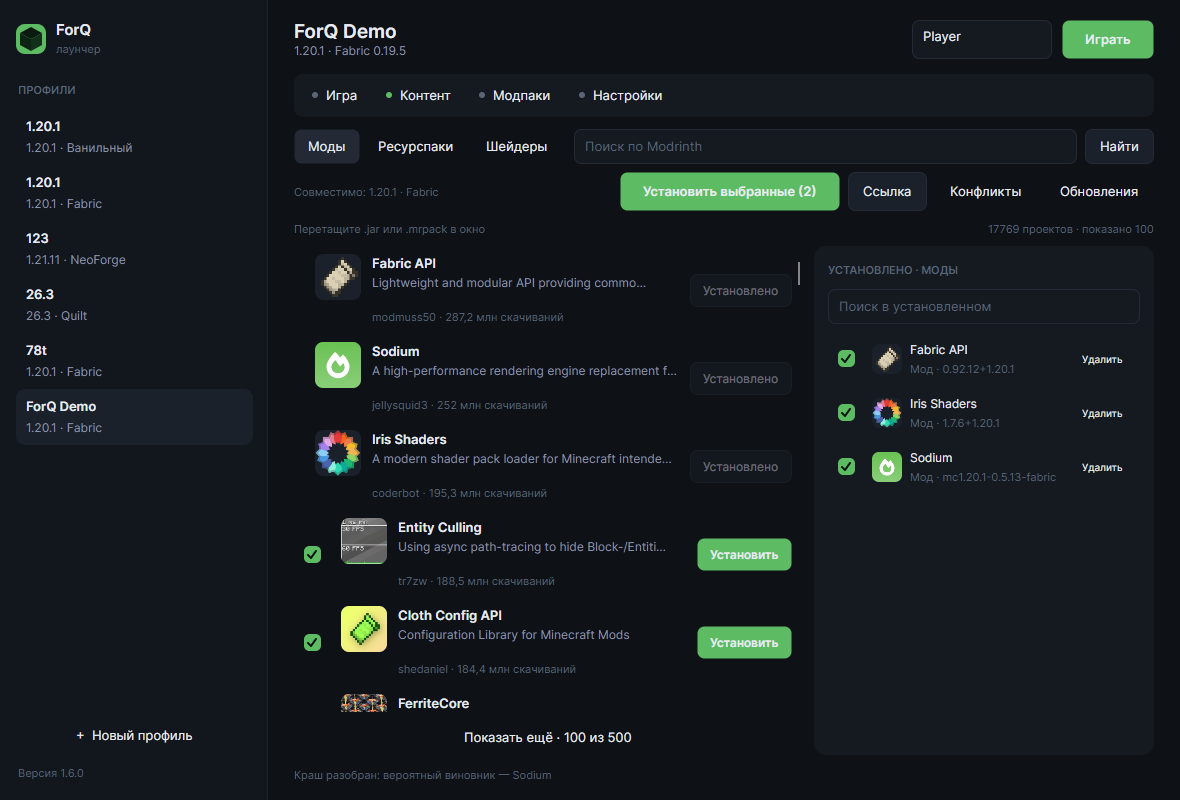
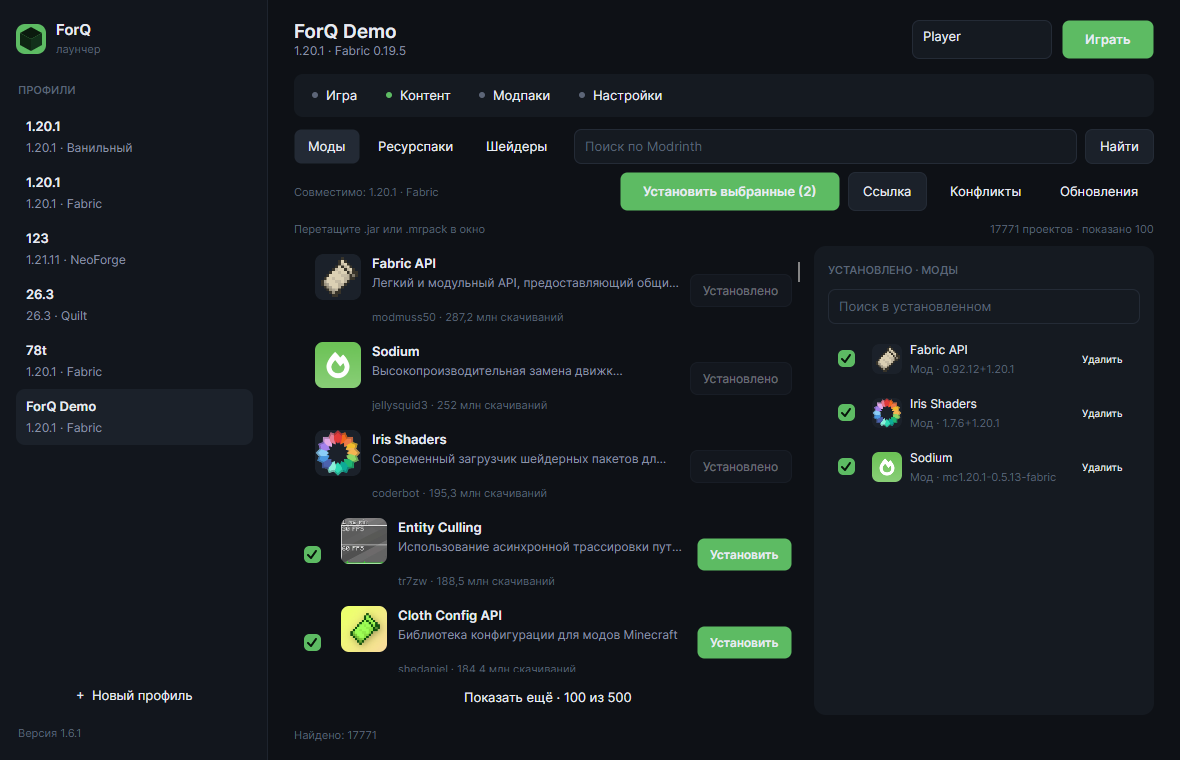
feat: добавил перевод описаний контента

diff --git a/src/ForQ.App/MainWindow.axaml.cs b/src/ForQ.App/MainWindow.axaml.cs
@@ -49,6 +49,8 @@ public partial class MainWindow : Window
     private string _resultsQuery = "";
     private ObservableCollection<SearchItem> _resultItems = new();
     private ObservableCollection<SearchItem> _modpackItems = new();
+    private CancellationTokenSource? _contentTranslationCts;
+    private CancellationTokenSource? _modpackTranslationCts;
     private int _searchOffset;
     private int _searchTotal;
     private int _modpackOffset;
@@ -519,6 +521,10 @@ public partial class MainWindow : Window
             return;
         }
 
+        _contentTranslationCts?.Cancel();
+        var translationCts = CancellationTokenSource.CreateLinkedTokenSource(_cts.Token);
+        _contentTranslationCts = translationCts;
+
         var instance = _current;
         var kind = _kind;
         var query = SearchBox.Text ?? "";
@@ -567,6 +573,7 @@ public partial class MainWindow : Window
             _searchTotal = (int)response.TotalHits;
             UpdateSearchMore();
             UpdateBatchButton();
+            _ = TranslateDescriptionsAsync(_resultItems, () => generation == _searchGeneration, translationCts.Token);
 
             StatusText.Text = $"Найдено: {response.TotalHits}";
 
@@ -617,6 +624,7 @@ public partial class MainWindow : Window
         var instance = _current;
         var kind = _resultsKind;
         var generation = _searchGeneration;
+        var translationToken = _contentTranslationCts?.Token ?? _cts.Token;
         SearchMoreButton.IsEnabled = false;
         StatusText.Text = "Загружаю ещё...";
 
@@ -630,6 +638,7 @@ public partial class MainWindow : Window
                 return;
 
             var installedIds = _services.Content.InstalledProjectIds(instance, kind);
+            var added = new List<SearchItem>();
             foreach (var project in response.Hits)
             {
                 if (_resultItems.Count >= SearchMaxItems)
@@ -642,9 +651,11 @@ public partial class MainWindow : Window
                     Installed = installedIds.Contains(project.Key)
                 };
                 _resultItems.Add(item);
+                added.Add(item);
                 _ = item.LoadIconAsync(_cts.Token);
             }
 
+            _ = TranslateDescriptionsAsync(added, () => generation == _searchGeneration, translationToken);
             _searchOffset += response.Hits.Count;
             _searchTotal = (int)response.TotalHits;
             UpdateSearchMore();
@@ -662,6 +673,43 @@ public partial class MainWindow : Window
         finally
         {
             SearchMoreButton.IsEnabled = true;
+        }
+    }
+
+    private async Task TranslateDescriptionsAsync(
+        IReadOnlyList<SearchItem> items, Func<bool> isCurrent, CancellationToken ct)
+    {
+        if (items.Count == 0)
+            return;
+
+        try
+        {
+            var progress = new Progress<(int Index, string Text)>(entry =>
+            {
+                if (!isCurrent() || entry.Index < 0 || entry.Index >= items.Count)
+                    return;
+                items[entry.Index].SetDescription(entry.Text);
+            });
+
+            var descriptions = items.Select(item => item.Project.Description).ToList();
+            var translated = await _services.Translation.ToRussianBatchAsync(descriptions, ct, progress);
+            if (ct.IsCancellationRequested)
+                return;
+
+            Dispatcher.UIThread.Post(() =>
+            {
+                if (!isCurrent())
+                    return;
+
+                for (var index = 0; index < items.Count && index < translated.Count; index++)
+                    items[index].SetDescription(translated[index]);
+            });
+        }
+        catch (OperationCanceledException)
+        {
+        }
+        catch
+        {
         }
     }
 
@@ -1190,6 +1238,10 @@ public partial class MainWindow : Window
 
     private async Task RunModpackSearchAsync()
     {
+        _modpackTranslationCts?.Cancel();
+        var translationCts = CancellationTokenSource.CreateLinkedTokenSource(_cts.Token);
+        _modpackTranslationCts = translationCts;
+
         var generation = ++_modpackGeneration;
         ModpackMoreButton.IsVisible = false;
         StatusText.Text = "Поиск сборок...";
@@ -1215,6 +1267,7 @@ public partial class MainWindow : Window
             _modpackTotal = (int)response.TotalHits;
             UpdateModpackMore();
             _modpacksLoaded = true;
+            _ = TranslateDescriptionsAsync(_modpackItems, () => generation == _modpackGeneration, translationCts.Token);
             StatusText.Text = "Готово";
         }
         catch (OperationCanceledException)
@@ -1254,6 +1307,7 @@ public partial class MainWindow : Window
         }
 
         var generation = _modpackGeneration;
+        var translationToken = _modpackTranslationCts?.Token ?? _cts.Token;
         ModpackMoreButton.IsEnabled = false;
         StatusText.Text = "Загружаю ещё...";
 
@@ -1265,6 +1319,7 @@ public partial class MainWindow : Window
             if (generation != _modpackGeneration)
                 return;
 
+            var added = new List<SearchItem>();
             foreach (var hit in response.Hits)
             {
                 if (_modpackItems.Count >= SearchMaxItems)
@@ -1274,9 +1329,11 @@ public partial class MainWindow : Window
 
                 var item = new SearchItem(hit, "Модпак");
                 _modpackItems.Add(item);
+                added.Add(item);
                 _ = item.LoadIconAsync(_cts.Token);
             }
 
+            _ = TranslateDescriptionsAsync(added, () => generation == _modpackGeneration, translationToken);
             _modpackOffset += response.Hits.Count;
             _modpackTotal = (int)response.TotalHits;
             UpdateModpackMore();

diff --git a/src/ForQ.Core/TranslationService.cs b/src/ForQ.Core/TranslationService.cs
@@ -8,6 +8,10 @@ public sealed class TranslationService
 {
     private const string Endpoint = "https://translate.googleapis.com/translate_a/single";
     private const int ChunkSize = 900;
+    private const int BatchSize = 8;
+
+    private static readonly Regex BatchMarker = new(
+        @"\[\[\[FORQ(?<index>\d+)\]\]\]", RegexOptions.Compiled);
 
     private readonly HttpApi _http;
     private readonly string _cachePath;
@@ -45,6 +49,81 @@ public sealed class TranslationService
         return result.ToString();
     }
 
+    public async Task<IReadOnlyList<string>> ToRussianBatchAsync(
+        IReadOnlyList<string> texts,
+        CancellationToken ct,
+        IProgress<(int Index, string Text)>? progress = null)
+    {
+        var results = new string[texts.Count];
+        var pending = new List<(int Index, string Text)>();
+        await EnsureLoadedAsync();
+
+        for (var index = 0; index < texts.Count; index++)
+        {
+            var text = texts[index] ?? "";
+            results[index] = text;
+
+            if (string.IsNullOrWhiteSpace(text) || IsRussian(text))
+                continue;
+
+            if (_cache.TryGetValue(text.Trim(), out var cached))
+            {
+                results[index] = cached;
+                continue;
+            }
+
+            pending.Add((index, text));
+        }
+
+        if (pending.Count == 0)
+            return results;
+
+        await _gate.WaitAsync(ct);
+        try
+        {
+            var remaining = new List<(int Index, string Text)>();
+            foreach (var entry in pending)
+            {
+                if (_cache.TryGetValue(entry.Text.Trim(), out var cached))
+                    results[entry.Index] = cached;
+                else
+                    remaining.Add(entry);
+            }
+
+            for (var offset = 0; offset < remaining.Count; offset += BatchSize)
+            {
+                ct.ThrowIfCancellationRequested();
+                var batch = remaining.Skip(offset).Take(BatchSize).ToList();
+                var combined = BuildBatch(batch.Select(entry => entry.Text).ToList());
+                var translated = await RequestTranslationAsync(combined, ct);
+                if (string.IsNullOrWhiteSpace(translated) || !BatchMarker.IsMatch(translated))
+                    continue;
+
+                var parts = ParseBatch(translated, batch.Count);
+                for (var slot = 0; slot < batch.Count; slot++)
+                {
+                    var value = parts[slot];
+                    if (string.IsNullOrWhiteSpace(value))
+                        continue;
+
+                    var original = batch[slot].Text.Trim();
+                    value = value.Trim();
+                    results[batch[slot].Index] = value;
+                    _cache[original] = value;
+                    progress?.Report((batch[slot].Index, value));
+                }
+
+                await SaveCacheAsync();
+            }
+        }
+        finally
+        {
+            _gate.Release();
+        }
+
+        return results;
+    }
+
     private async Task<string> TranslateChunkAsync(string chunk, CancellationToken ct)
     {
         await _gate.WaitAsync(ct);
@@ -53,9 +132,7 @@ public sealed class TranslationService
             if (_cache.TryGetValue(chunk, out var cached))
                 return cached;
 
-            var url = $"{Endpoint}?client=gtx&sl=auto&tl=ru&dt=t&q={Uri.EscapeDataString(chunk)}";
-            var json = await _http.GetStringAsync(url, ct);
-            var translated = Parse(json);
+            var translated = await RequestTranslationAsync(chunk, ct);
             if (string.IsNullOrWhiteSpace(translated))
                 return chunk;
 
@@ -63,14 +140,57 @@ public sealed class TranslationService
             await SaveCacheAsync();
             return translated;
         }
-        catch (Exception) when (!ct.IsCancellationRequested)
-        {
-            return chunk;
-        }
         finally
         {
             _gate.Release();
         }
+    }
+
+    private async Task<string?> RequestTranslationAsync(string text, CancellationToken ct)
+    {
+        try
+        {
+            var url = $"{Endpoint}?client=gtx&sl=auto&tl=ru&dt=t&q={Uri.EscapeDataString(text)}";
+            var json = await _http.GetStringAsync(url, ct);
+            var translated = Parse(json);
+            return string.IsNullOrWhiteSpace(translated) ? null : translated;
+        }
+        catch (Exception) when (!ct.IsCancellationRequested)
+        {
+            return null;
+        }
+    }
+
+    private static string BuildBatch(IReadOnlyList<string> texts)
+    {
+        var builder = new StringBuilder();
+        for (var index = 0; index < texts.Count; index++)
+        {
+            builder.Append("[[[FORQ").Append(index).Append("]]]\n");
+            builder.Append(texts[index]);
+            builder.Append('\n');
+        }
+
+        return builder.ToString();
+    }
+
+    private static string[] ParseBatch(string text, int count)
+    {
+        var result = new string[count];
+        var matches = BatchMarker.Matches(text);
+
+        for (var index = 0; index < matches.Count; index++)
+        {
+            var match = matches[index];
+            if (!int.TryParse(match.Groups["index"].Value, out var slot) || slot < 0 || slot >= count)
+                continue;
+
+            var start = match.Index + match.Length;
+            var end = index + 1 < matches.Count ? matches[index + 1].Index : text.Length;
+            result[slot] = text[start..end].Trim();
+        }
+
+        return result;
     }
 
     private static string Parse(string json)

diff --git a/src/ForQ.App/ViewModels.cs b/src/ForQ.App/ViewModels.cs
@@ -28,16 +28,18 @@ public sealed class SearchItem : ObservableBase
     private Bitmap? _icon;
     private bool _installed;
     private bool _selected;
+    private string _description;
 
     public SearchItem(ModrinthProject project, string typeLabel)
     {
         Project = project;
         TypeLabel = typeLabel;
+        _description = project.Description;
     }
 
     public ModrinthProject Project { get; }
     public string Title => Project.Title;
-    public string Description => Project.Description;
+    public string Description => _description;
     public string Author => string.IsNullOrWhiteSpace(Project.Author) ? "неизвестно" : Project.Author!;
     public string TypeLabel { get; }
     public string Downloads => Format.Count(Project.Downloads);
@@ -68,6 +70,13 @@ public sealed class SearchItem : ObservableBase
     {
         get => _selected;
         set => Set(ref _selected, value);
+    }
+
+    public void SetDescription(string description)
+    {
+        if (string.IsNullOrWhiteSpace(description))
+            return;
+        Set(ref _description, description, nameof(Description));
     }
 
     public bool NotInstalled => !_installed;
